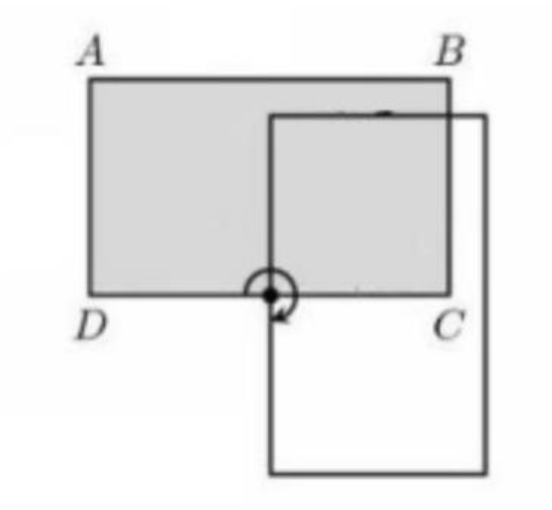
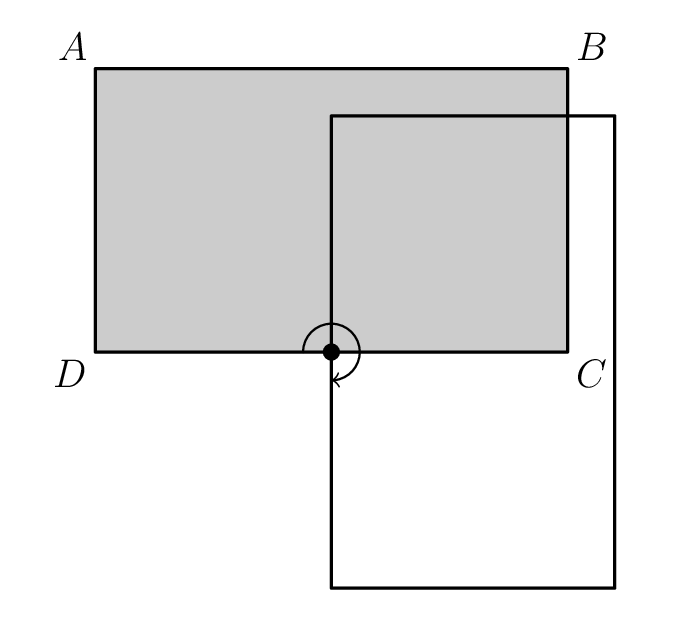
fixing 2025 diagram

Changed region(s): [[0.0616, 0.0294, 0.9239, 0.9706]]

diff --git a/src/data/sampleProblems.ts b/src/data/sampleProblems.ts
@@ -48385,7 +48385,7 @@ const amc2025Problems: Problem[] = [
     "category": "Number Theory",
     "subcategory": "Place value",
     "difficulty": 1,
-    "statement": "The table below shows the ancient Egyptian hieroglyphs that were used to represent different numbers. For example, the number 32 was represented by three heel bones and two strokes. What number is represented by the following combination of hieroglyphs shown in the figure?",
+    "statement": "See below.",
     "choices": [
       { "label": "A", "text": "1,423" },
       { "label": "B", "text": "10,423" },